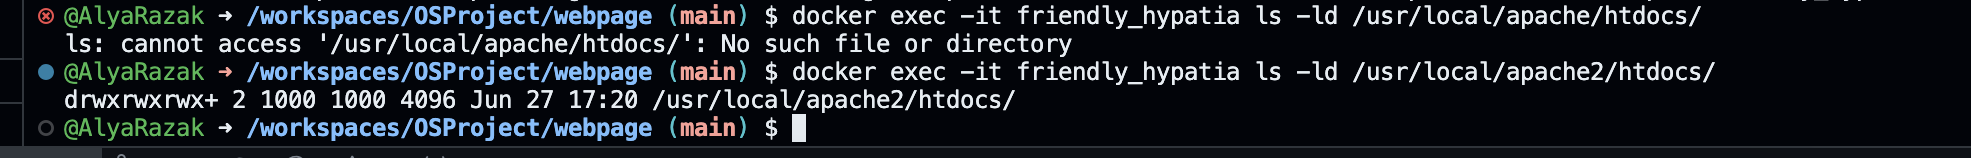
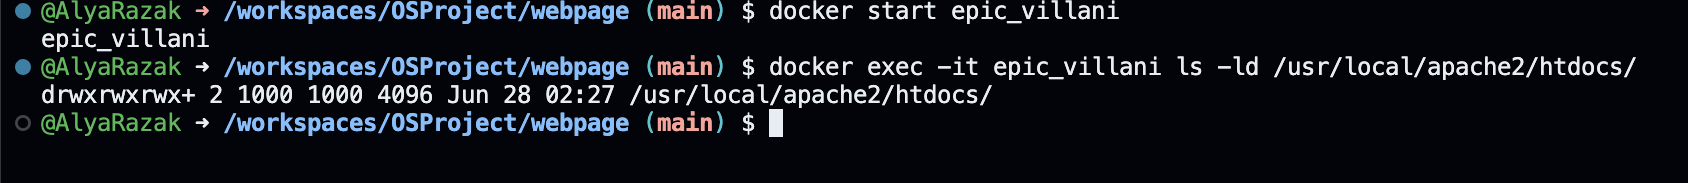
update webpage

Changed region(s): [[0.0, 0.0, 1.0, 1.0], [0.2156, 0.9873, 0.2464, 1.0], [0.1232, 0.9873, 0.154, 1.0]]

diff --git a/README.md b/README.md
@@ -213,9 +213,9 @@ docker run --detach -v /workspaces/OSProject/webpage:/usr/local/apache2/htdocs/ 
 ***Questions:***
 
 1. What is the permission of folder /usr/local/apache/htdocs and what user and group owns the folder? . ***(2 mark)*** <br>
-__The permission of folder /usr/local/apache/htdocs is drwxr-xr-x__ <br>
-__User: root__ <br>
-__Group: root__.
+__The permission of folder /usr/local/apache/htdocs is drwxrwxrwx+__<br>
+__User: 1000__ <br>
+__Group: 1000__.
 <br>
 <img src="./images/webpageQ1.png" width="70%">
 
